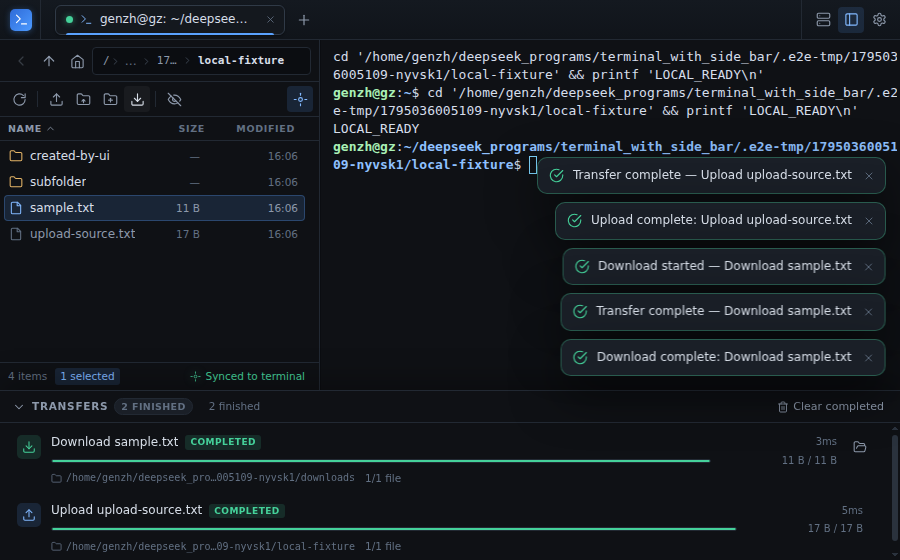
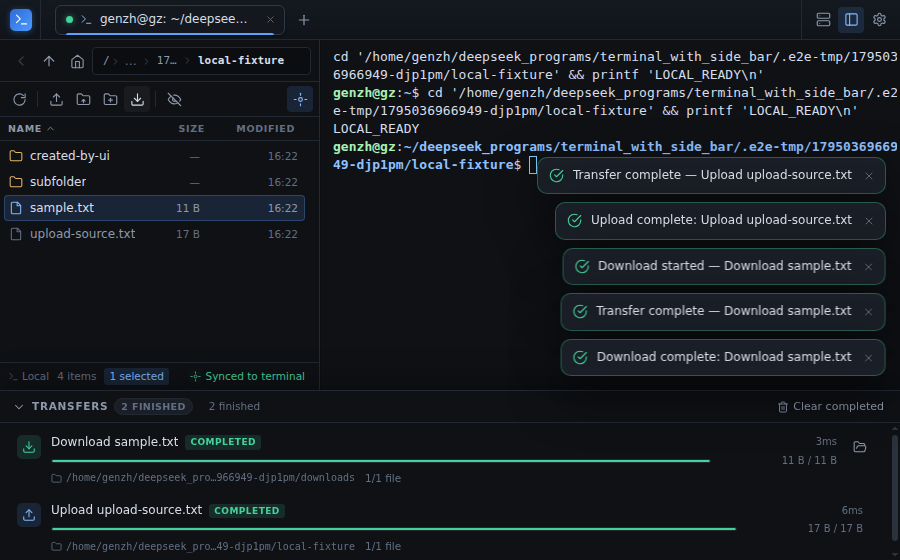
Fix PowerShell shell integration under execution policies; clarify local vs remote sidebar
- Launch the generated PowerShell prompt hook via -EncodedCommand instead of
  -File, so Restricted/RemoteSigned/AllSigned execution policies no longer block
  the OSC 7 folder-sync hook (the -File error left Windows sessions in manual mode).
- Add shell-integration unit tests (encoded command payload, bash rcfile, zsh
  ZDOTDIR, cleanup) and a Local/SFTP scope indicator in the sidebar footer so it
  is obvious when the file pane is showing local files during a nested ssh.
- Document that ssh started inside a local terminal does not repoint the sidebar;
  use New SSH Session for remote SFTP.
- Bump to 0.1.1 and rebuild artifacts.

diff --git a/tests/unit/shell-integration.test.ts b/tests/unit/shell-integration.test.ts
@@ -1,0 +1,102 @@
+import fs from 'node:fs'
+import os from 'node:os'
+import path from 'node:path'
+import { afterEach, describe, expect, it } from 'vitest'
+import { prepareLocalShellLaunch } from '../../src/main/shell/integration'
+
+const directories: string[] = []
+
+function runtimeRoot(): string {
+  const dir = fs.mkdtempSync(path.join(os.tmpdir(), 'termshelf-shell-'))
+  directories.push(dir)
+  return dir
+}
+
+afterEach(() => {
+  for (const dir of directories.splice(0)) {
+    fs.rmSync(dir, { recursive: true, force: true })
+  }
+})
+
+describe('prepareLocalShellLaunch', () => {
+  it('launches PowerShell through -EncodedCommand so execution policies do not block the hook', async () => {
+    const launch = await prepareLocalShellLaunch({
+      shellPath: 'C:\\Program Files\\PowerShell\\7\\pwsh.exe',
+      kind: 'powershell',
+      runtimeRoot: runtimeRoot(),
+      sessionId: 'test'
+    })
+    expect(launch.integrated).toBe(true)
+    const encodedIndex = launch.args.indexOf('-EncodedCommand')
+    expect(encodedIndex).toBeGreaterThanOrEqual(0)
+    expect(launch.args).not.toContain('-File')
+    const script = Buffer.from(launch.args[encodedIndex + 1]!, 'base64').toString('utf16le')
+    expect(script).toContain('__termshelf_emit_osc7')
+    expect(script).toContain(']7;file://')
+    expect(script).toContain('function global:prompt')
+  })
+
+  it('launches bash with a generated rcfile that emits OSC 7 and sources the user rc', async () => {
+    const launch = await prepareLocalShellLaunch({
+      shellPath: '/bin/bash',
+      kind: 'bash',
+      runtimeRoot: runtimeRoot(),
+      sessionId: 'test'
+    })
+    expect(launch.integrated).toBe(true)
+    expect(launch.args[0]).toBe('-l')
+    expect(launch.args.join(' ')).toContain('--rcfile')
+    const rcPath = /--rcfile '([^']+)'/.exec(launch.args[2] ?? '')?.[1]
+    expect(rcPath).toBeTruthy()
+    const content = fs.readFileSync(rcPath!, 'utf8')
+    expect(content).toContain('$HOME/.bashrc')
+    expect(content).toContain(']7;file://')
+    expect(content).toContain('PROMPT_COMMAND')
+  })
+
+  it('launches zsh with a ZDOTDIR that preserves the original startup files', async () => {
+    const launch = await prepareLocalShellLaunch({
+      shellPath: '/bin/zsh',
+      kind: 'zsh',
+      runtimeRoot: runtimeRoot(),
+      sessionId: 'test'
+    })
+    expect(launch.integrated).toBe(true)
+    expect(launch.env.ZDOTDIR).toBeTruthy()
+    const zshrc = fs.readFileSync(path.join(launch.env.ZDOTDIR!, '.zshrc'), 'utf8')
+    expect(zshrc).toContain('.zshrc')
+    expect(zshrc).toContain('add-zsh-hook')
+    expect(zshrc).toContain(']7;file://')
+  })
+
+  it('does not integrate cmd.exe or plain sh', async () => {
+    const cmd = await prepareLocalShellLaunch({
+      shellPath: 'C:\\Windows\\System32\\cmd.exe',
+      kind: 'cmd',
+      runtimeRoot: runtimeRoot(),
+      sessionId: 'test'
+    })
+    expect(cmd.integrated).toBe(false)
+    expect(cmd.args).toEqual([])
+    const sh = await prepareLocalShellLaunch({
+      shellPath: '/bin/sh',
+      kind: 'sh',
+      runtimeRoot: runtimeRoot(),
+      sessionId: 'test'
+    })
+    expect(sh.integrated).toBe(false)
+  })
+
+  it('removes its temporary integration directory on cleanup', async () => {
+    const root = runtimeRoot()
+    const launch = await prepareLocalShellLaunch({
+      shellPath: '/bin/bash',
+      kind: 'bash',
+      runtimeRoot: root,
+      sessionId: 'cleanup-test'
+    })
+    expect(fs.existsSync(path.join(root, 'shell-cleanup-test'))).toBe(true)
+    await launch.cleanup()
+    expect(fs.existsSync(path.join(root, 'shell-cleanup-test'))).toBe(false)
+  })
+})

diff --git a/src/main/shell/integration.ts b/src/main/shell/integration.ts
@@ -179,10 +179,15 @@ export async function prepareLocalShellLaunch(
       }
     }
 
-    const initPath = await write('profile.ps1', POWERSHELL_INIT)
+    // Pass the init script through -EncodedCommand instead of -File: execution
+    // policies (Restricted/AllSigned/RemoteSigned) block script *files*, and the
+    // generated integration file is unsigned. Encoded commands are not subject to
+    // the script file execution policy, so the prompt hook works out of the box
+    // without asking the user to change a machine-wide policy.
+    const encoded = Buffer.from(POWERSHELL_INIT, 'utf16le').toString('base64')
     return {
       ...base,
-      args: ['-NoLogo', '-NoExit', '-File', initPath],
+      args: ['-NoLogo', '-NoExit', '-EncodedCommand', encoded],
       env: { TERMSHELF_SHELL_INTEGRATION: 'powershell' },
       integrated: true,
       cleanup

diff --git a/src/renderer/src/components/sidebar/Sidebar.tsx b/src/renderer/src/components/sidebar/Sidebar.tsx
@@ -314,6 +314,17 @@ export function Sidebar(): React.JSX.Element {
       {tab ? (
         <footer className="sidebar__footer">
           <div className="sidebar__footer-left">
+            <span
+              className="sidebar__scope"
+              title={
+                tab.kind === 'ssh'
+                  ? 'These are files on the remote host (SFTP)'
+                  : 'These are files on this computer. Use New SSH Session to browse a remote host.'
+              }
+            >
+              <Icon name={tab.kind === 'ssh' ? 'server' : 'terminal'} size={11} />
+              <span>{tab.kind === 'ssh' ? 'SFTP' : 'Local'}</span>
+            </span>
             <span className="sidebar__count">
               {formatCount(entries.length)} {pluralize(entries.length, 'item')}
             </span>

diff --git a/src/renderer/src/styles/app.css b/src/renderer/src/styles/app.css
@@ -1198,6 +1198,16 @@ code {
   overflow: hidden;
   white-space: nowrap;
 }
+.sidebar__scope {
+  display: inline-flex;
+  align-items: center;
+  gap: 3px;
+  flex: 0 0 auto;
+  color: var(--text-faint);
+}
+.sidebar__scope .icon {
+  opacity: 0.8;
+}
 .sidebar__selection {
   padding: 1px 5px;
   border-radius: 3px;

diff --git a/src/shared/constants.ts b/src/shared/constants.ts
@@ -1,5 +1,5 @@
 export const APP_NAME = 'TermShelf'
-export const APP_VERSION = '0.1.0'
+export const APP_VERSION = '0.1.1'
 export const APP_ID = 'com.termshelf.app'
 export const MAX_DIR_ENTRIES = 5000
 export const TERMINAL_SCROLLBACK = 10_000

diff --git a/README.md b/README.md
@@ -102,8 +102,8 @@ see [docs/BUILDING.md](docs/BUILDING.md) for signing, notarization and CI detail
 
 Artifacts produced and verified in this checkout:
 
-- `dist/TermShelf-0.1.0-linux-x86_64.AppImage` — built and smoke-tested headlessly.
-- `dist/TermShelf-0.1.0-win-x64.zip` — Windows x64 portable build (PE32+ verified; cannot be
+- `dist/TermShelf-0.1.1-linux-x86_64.AppImage` — built and smoke-tested headlessly.
+- `dist/TermShelf-0.1.1-win-x64.zip` — Windows x64 portable build (PE32+ verified; cannot be
   executed on this Linux host).
 - The macOS `.dmg`/`.zip` must be built on macOS (or the provided CI workflow); macOS
   packaging is not possible on Linux.
@@ -143,6 +143,11 @@ never constructs filesystem paths itself.
   remotes work for the terminal and SFTP; remote-folder sync falls back to manual browsing.
   Shell integration is best-effort: if SFTP, shell detection or init-file verification fails,
   the session falls back to a plain shell and the sidebar remains fully usable manually.
+- **Running `ssh` inside a local terminal does not repoint the sidebar.** Use the app's
+  **New SSH Session** flow (server icon, `Ctrl/Cmd+Shift+T`) so it can open SFTP with the
+  same credentials and follow the remote shell's folder. This is also why X11-forwarding
+  commands like `ssh -Y` belong in a local terminal, while file transfers belong in an app
+  SSH session.
 - **Scope for v1**: no jump hosts/port forwarding/X11, no built-in editor, no upload
   resume/retry, no drag-out to the desktop, no session restore on launch, no light theme, no
   WSL/Git-Bash as _local_ shell backing (they remain valid SSH targets). Keyboard-interactive
